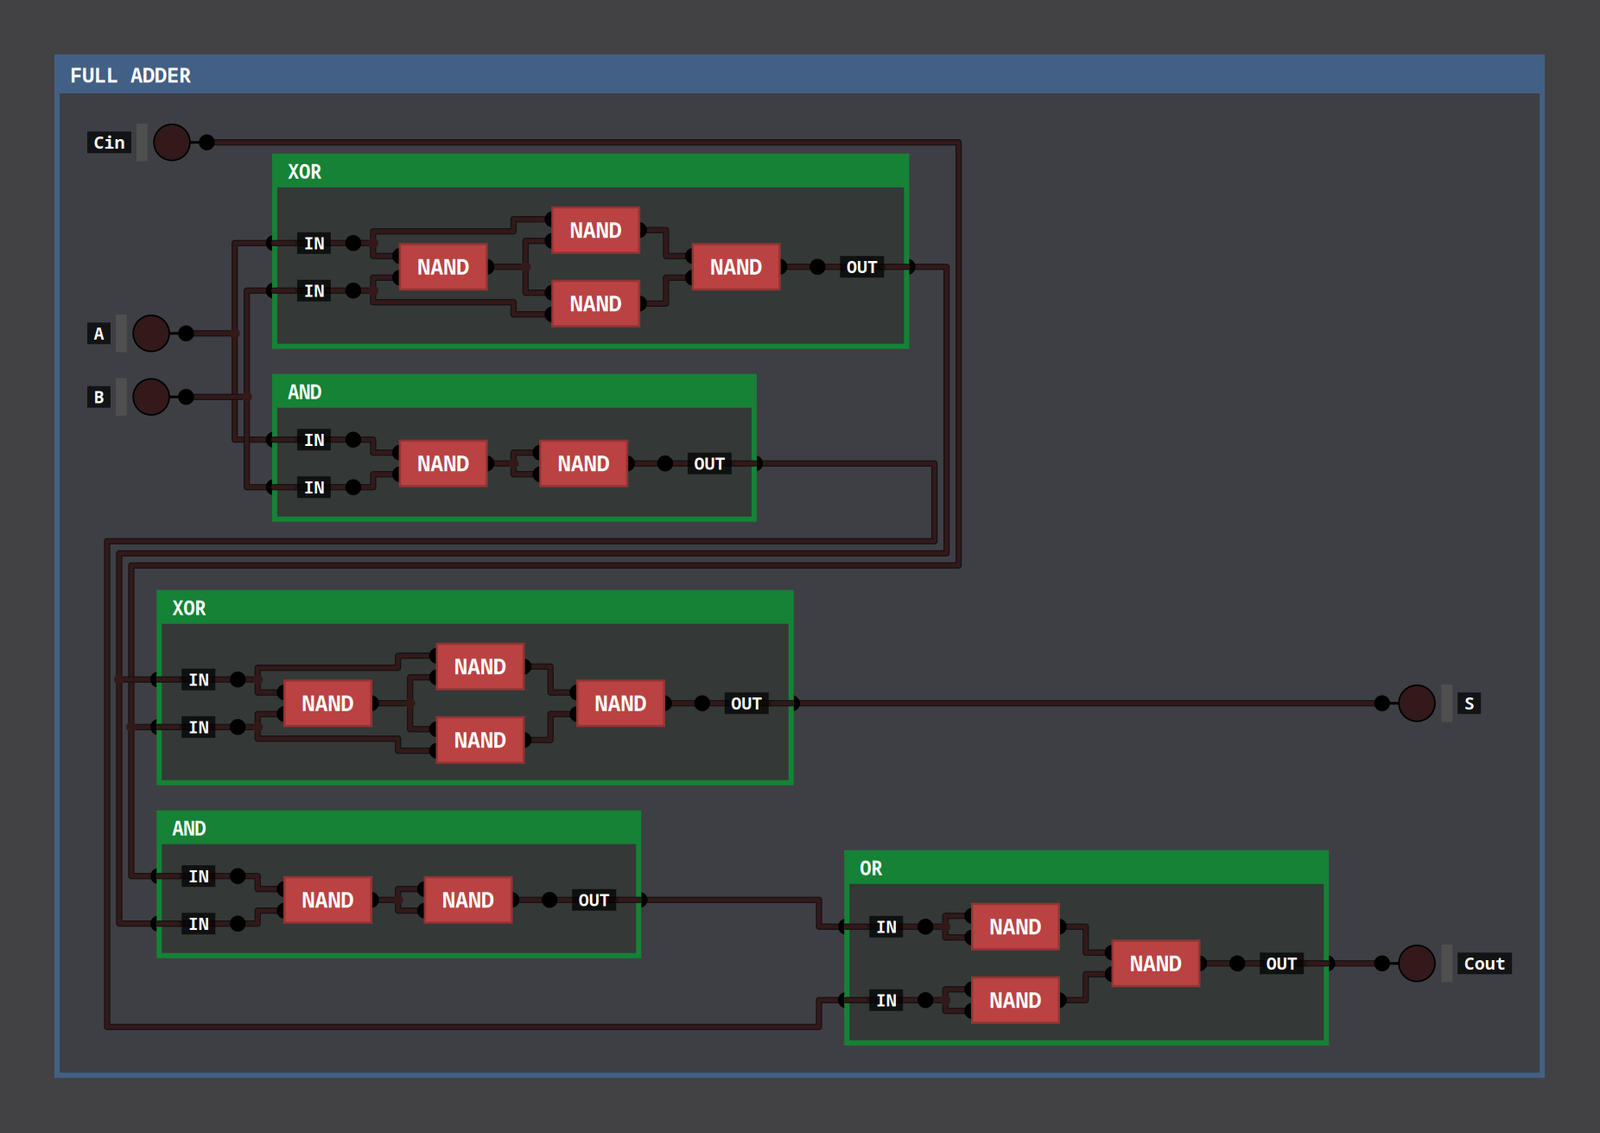
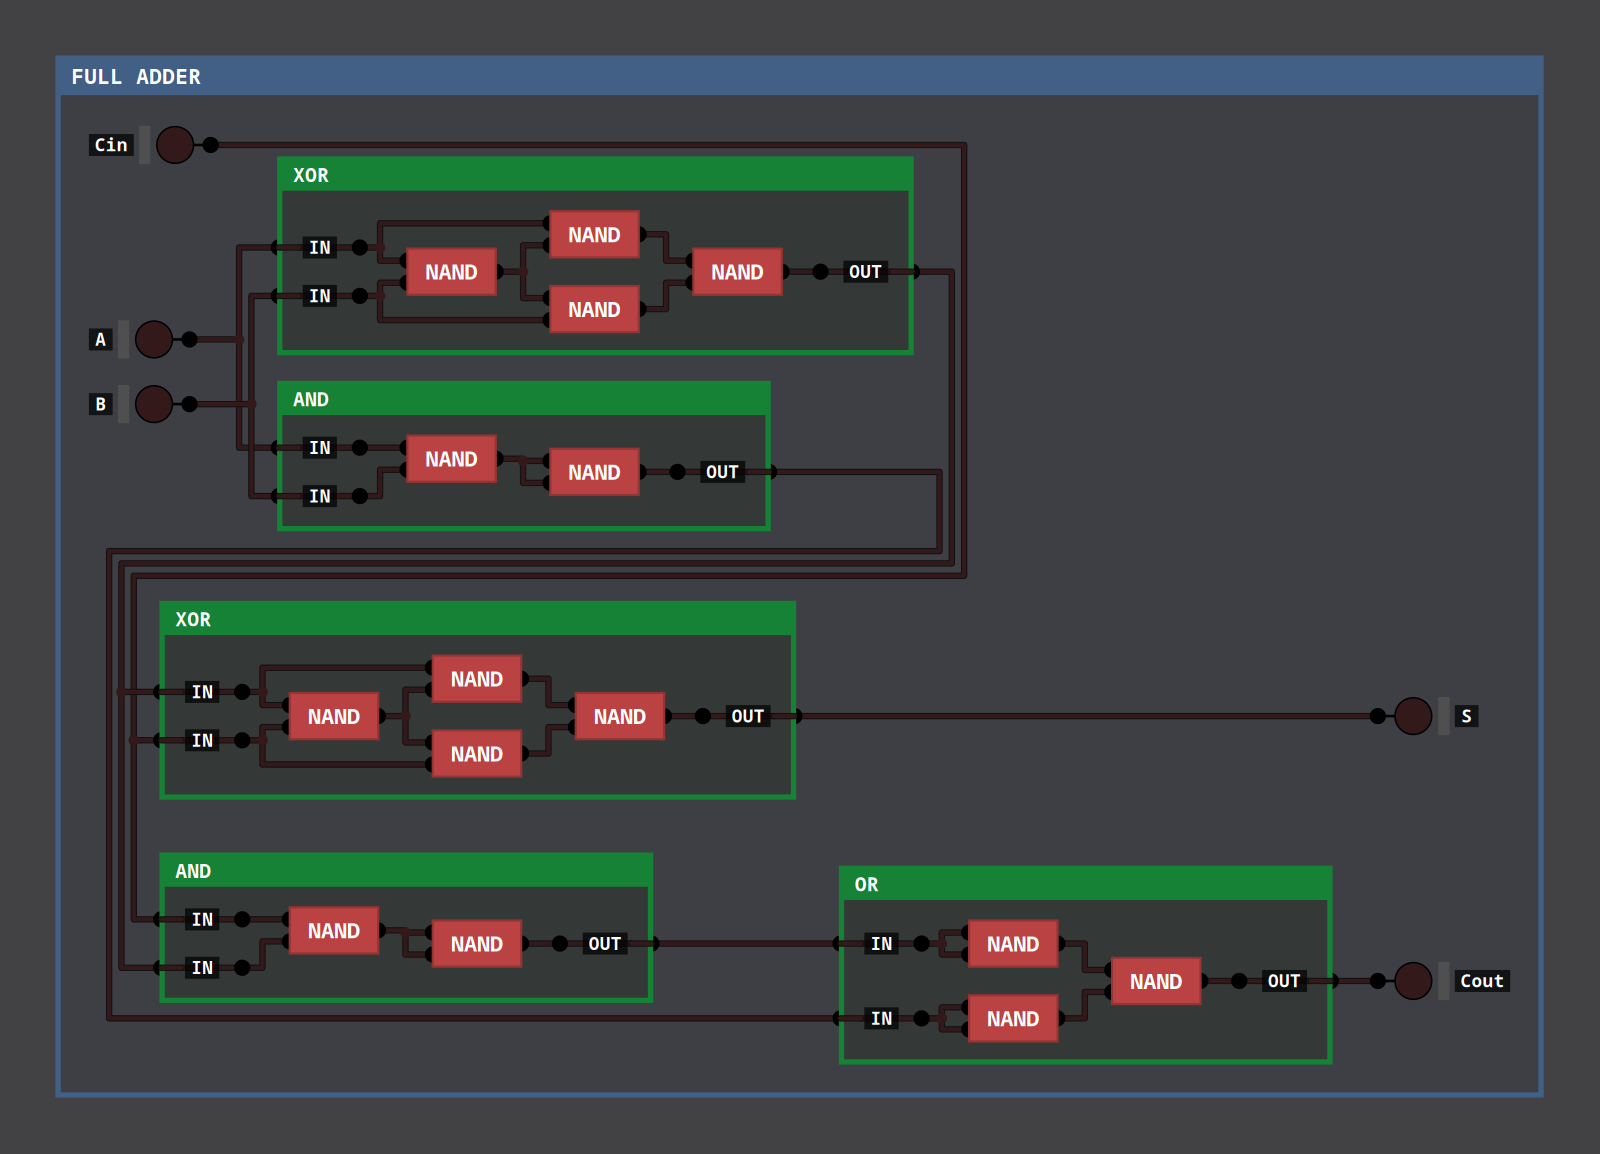
Use the auto layout for circuit images too
Both modes now default to the auto layout (--layout original keeps your own
placement). To keep the result easy to read:

- A bus whose bits all go to the same place is drawn as one thick wire with a
  dark centre line; per-bit wires are only used where a bus actually splits.
- After placement, parts are nudged wherever there's room so more wires run
  dead level instead of taking small jogs.
- Wrapping into rows now weighs the looping wires a row break would create, so
  a small chip whose wires mostly cross the break stays in one row.

diff --git a/dls_export.py b/dls_export.py
@@ -9,6 +9,10 @@ Two render modes:
             that holds its own inner circuit, so you can see all the parts
             a component is built from.
 
+Both modes use the auto layout by default: the parts are re-placed in columns by
+signal flow and the wires re-routed so they're easy to follow. --layout original
+keeps your own placement and wire bends instead.
+
 It reads the game's save files directly (it doesn't touch them), and it copies
 the game's layout rules (pin spacing, chip sizes, built-in chips, wire
 geometry) from the public DLS source so that wires meet pins where they do
@@ -365,8 +369,9 @@ class DevPin:
 
 
 class Wire:
-    def __init__(self, points, bits, colour, junction, depth, net=None):
+    def __init__(self, points, bits, colour, junction, depth, net=None, solid=False):
         self.points, self.bits, self.colour, self.junction, self.depth = points, bits, colour, junction, depth
+        self.solid = solid
         self.net = net
 
 
@@ -831,7 +836,13 @@ WIRE_CASING = (0.06, 0.06, 0.07)
 def draw_wire(ctx, w, opts):
     if getattr(opts, "split_buses", False):
         # Auto layout: every bit is its own wire with a thin dark edge, buses spread slightly
-        # apart, so a bus reads as separate wires and each bit can peel off on its own.
+        # apart, so a bus reads as separate wires and each bit can peel off on its own. A bus
+        # whose bits all go to the same place is one solid band with a dark centre line instead.
+        if w.solid and w.bits > 1:
+            polyline(ctx, w.points, BUS_W + 0.03, WIRE_CASING)
+            polyline(ctx, w.points, BUS_W, wire_col(w.colour, opts))
+            polyline(ctx, w.points, 0.025, darken(wire_col(w.colour, opts), 1.8))
+            return
         lanes = [w.points] if w.bits == 1 else multibit_layout(w.points, w.bits, LANE / (2 * 0.925))
         for bi, bpts in enumerate(lanes):
             polyline(ctx, bpts, WIRE_T * 2 + 0.022, WIRE_CASING)
@@ -918,12 +929,13 @@ def draw_frame(ctx, c, opts, title):
 def render_scene(ctx, sc, opts):
     for w in sc.wires:
         draw_wire(ctx, w, opts)
-    for p, bits, col in getattr(sc, "dots", []):
+    for p, bits, col, *solid in getattr(sc, "dots", []):
         if bits == 1:
             point(ctx, p, 0.06, wire_col(col, opts))
         else:  # bus branch: a small dark-edged bar across the bus, not a blob over its bits
-            quad(ctx, p, (0.13, bundle_width(bits) + 0.05), WIRE_CASING)
-            quad(ctx, p, (0.08, bundle_width(bits)), wire_col(col, opts))
+            bw = bundle_width(bits, bool(solid and solid[0]))
+            quad(ctx, p, (0.13, bw + 0.05), WIRE_CASING)
+            quad(ctx, p, (0.08, bw), wire_col(col, opts))
 
     for c in sc.chips:
         if c.inner:
@@ -940,7 +952,7 @@ def render_scene(ctx, sc, opts):
         if ln.colour is not None:
             # square ends, so a thick bus doesn't spill over the pin's name tag
             if getattr(opts, "split_buses", False):
-                draw_wire(ctx, Wire([ln.a, ln.b], ln.bits, ln.colour, None, 0), opts)
+                draw_wire(ctx, Wire([ln.a, ln.b], ln.bits, ln.colour, None, 0, solid=getattr(ln, "solid", False)), opts)
             else:
                 polyline(ctx, [ln.a, ln.b], bundle_width(ln.bits), wire_col(ln.colour, opts), cap=cairo.LINE_CAP_BUTT)
     ctx.save()
@@ -1033,12 +1045,17 @@ FOLD_MIN_W = 14.0
 BAND_GAP = 0.8
 
 
-def bundle_width(bits):
-    return WIRE_T * 2 if bits == 1 else bits * LANE
+BUS_W = 0.16  # a bus whose bits all travel together: drawn as one solid band
 
 
-def track_width(bits):
-    return max(0.13, bundle_width(bits) + 0.09)
+def bundle_width(bits, solid=False):
+    if bits == 1:
+        return WIRE_T * 2
+    return BUS_W if solid else bits * LANE
+
+
+def track_width(bits, solid=False):
+    return max(0.13, bundle_width(bits, solid) + 0.09)
 
 
 class Port:
@@ -1400,6 +1417,15 @@ def build_auto_scene(lib, desc, opts, depth=0, stack=frozenset(), cache=None, ro
             first = a.net[1] if side == "L" else tgt_bit.get((a.net, key), 0)
             centre_bit = first + (a.net[2] - 1) / 2
             a.lane = ((pbits - 1) / 2 - centre_bit) * LANE  # layout y runs down: high bits above
+    fanned = {a.net for v in fan_groups.values() for a in v}
+
+    def solid(net):
+        return net[2] > 1 and net not in fanned
+
+    for L in layers:
+        for d in L:
+            if d.kind == "dummy":
+                d.h = bundle_width(d.bits, solid(d.net)) + 0.02
 
     # ---- ordering within each column (barycentre sweeps, keep the best) ----
     for L in layers:
@@ -1471,6 +1497,39 @@ def build_auto_scene(lib, desc, opts, depth=0, stack=frozenset(), cache=None, ro
                 desired.append(sum(vals) / len(vals) if vals else e.y)
                 weights.append(len(vals) if vals else 0.05)
             _isotonic_place(L, desired, weights, _gap)
+
+    # ---- straighten: nudge parts so more wires run dead level (no small jogs) ----
+    def level_pairs(e):
+        """(own, other) for each plain point-to-point wire of e, the ones that can be straight."""
+        return [(own, o) for g, own in e.atts if len(g) == 2 and not any(a.fan for a in g)
+                for o in g if o is not own]
+
+    def n_level(e):
+        return sum(1 for own, o in level_pairs(e) if abs(own.y() - o.y()) < 1e-6)
+
+    for it in range(6):
+        moved = False
+        order = range(n_layers) if it % 2 == 0 else range(n_layers - 1, -1, -1)
+        for li in order:
+            L = layers[li]
+            for i, e in enumerate(L):
+                lo = L[i - 1].y + L[i - 1].h + _gap(L[i - 1], e) if i > 0 else -float("inf")
+                hi = L[i + 1].y - _gap(e, L[i + 1]) - e.h if i + 1 < len(L) else float("inf")
+                y0, best = e.y, (n_level(e), 0.0)
+                cands = {round(o.y() - (own.y() - e.y), 6) for own, o in level_pairs(e)}
+                best_y = y0
+                for y in cands:
+                    if not (lo - 1e-9 <= y <= hi + 1e-9) or abs(y - y0) > 1.5:
+                        continue
+                    e.y = y
+                    score = (n_level(e), -abs(y - y0))
+                    if score > best:
+                        best, best_y = score, y
+                    e.y = y0
+                if best_y != y0:
+                    e.y, moved = best_y, True
+        if not moved:
+            break
     top = min((e.y for e in elems + [d for L in layers for d in L]), default=0.0)
     for L in layers:
         for e in L:
@@ -1514,12 +1573,12 @@ def build_auto_scene(lib, desc, opts, depth=0, stack=frozenset(), cache=None, ro
             w = 0.0
             for n in avail:
                 lo, hi, bits = need[n]
-                pad = TRACK_SEP + bundle_width(bits) / 2
+                pad = TRACK_SEP + bundle_width(bits, solid(n)) / 2
                 if lo > last_hi + pad:
                     assigned[n] = t
                     remaining.discard(n)
-                    last_hi = hi + bundle_width(bits) / 2
-                    w = max(w, track_width(bits))
+                    last_hi = hi + bundle_width(bits, solid(n)) / 2
+                    w = max(w, track_width(bits, solid(n)))
             widths.append(w)
         for n, t in assigned.items():
             tracks_of[(c, n)] = t
@@ -1537,26 +1596,38 @@ def build_auto_scene(lib, desc, opts, depth=0, stack=frozenset(), cache=None, ro
     band_of = [0] * n_layers
     cuts = []
     if opts.aspect and n_layers > 3 and total_w > FOLD_MIN_W and total_h > 0 and total_w / total_h > opts.aspect * 1.5:
-        best_k, best_score = 1, abs(math.log(total_w / total_h / opts.aspect))
-        for k in range(2, min(12, n_layers - 2) + 1):
-            wk = total_w / k + 1.5
-            hk = k * total_h + (k - 1) * BAND_GAP
-            score = abs(math.log(wk / hk / opts.aspect))
-            if score < best_score:
-                best_k, best_score = k, score
-        if best_k > 1:
-            n_in_chan = {}
-            for (c, net) in groups:
-                n_in_chan[c] = n_in_chan.get(c, 0) + 1
+        # Every wire crossing a row break has to loop around through the gap between rows, which
+        # costs space and clarity, so a wrap only wins when it improves the shape by enough.
+        n_in_chan, w_in_chan = {}, {}
+        for (c, net) in groups:
+            n_in_chan[c] = n_in_chan.get(c, 0) + 1
+            w_in_chan[c] = w_in_chan.get(c, 0.0) + track_width(net[2], solid(net))
+
+        def pick_cuts(k):
             used = set()
-            for j in range(1, best_k):
-                target = total_w * j / best_k
+            for j in range(1, k):
+                target = total_w * j / k
                 cands = [c for c in range(1, n_layers - 2) if c not in used] or [c for c in range(n_layers - 1) if c not in used]
                 if not cands:
                     break
                 used.add(min(cands, key=lambda c: abs(col_x[c] + col_w[c] + chan_w[c] / 2 - target) / total_w * 10
                                                   + 0.12 * n_in_chan.get(c, 0)))
-            cuts = sorted(used)
+            return sorted(used)
+
+        best_cuts, best_score = [], abs(math.log(total_w / total_h / opts.aspect))
+        for k in range(2, min(12, n_layers - 2) + 1):
+            ck = pick_cuts(k)
+            if len(ck) != k - 1:
+                break
+            wk = total_w / k + 1.5 + 2 * max(w_in_chan.get(c, 0.0) for c in ck)
+            hk = k * total_h + sum(BAND_GAP + w_in_chan.get(c, 0.0) for c in ck)
+            n_cross = sum(n_in_chan.get(c, 0) for c in ck)
+            # share of the picture the looping wires would take up (each runs about a row's width)
+            loop_share = sum(w_in_chan.get(c, 0.0) for c in ck) / (k * total_h)
+            score = abs(math.log(wk / hk / opts.aspect)) + 5.0 * loop_share + 0.02 * n_cross
+            if score < best_score:
+                best_cuts, best_score = ck, score
+        cuts = best_cuts
     b = 0
     for li in range(n_layers):
         band_of[li] = b
@@ -1579,7 +1650,7 @@ def build_auto_scene(lib, desc, opts, depth=0, stack=frozenset(), cache=None, ro
     def stack_tracks(c, seq, store):
         pos = CHANNEL_MARGIN
         for n, g in seq:
-            tw = track_width(n[2])
+            tw = track_width(n[2], solid(n))
             store[(c, n)] = pos + tw / 2
             pos += tw
         return pos + CHANNEL_MARGIN
@@ -1653,8 +1724,10 @@ def build_auto_scene(lib, desc, opts, depth=0, stack=frozenset(), cache=None, ro
                         port = inner.ports_by_id.get(p["ID"])
                         if port:
                             ox, oy = port.outer_pos
-                            sc.links.append(Link(pin.pos, (ox + c.inner_offset[0], oy + c.inner_offset[1]),
-                                                 colour=pin.colour if pin.is_source else port.colour, bits=pin.bits))
+                            ln = Link(pin.pos, (ox + c.inner_offset[0], oy + c.inner_offset[1]),
+                                      colour=pin.colour if pin.is_source else port.colour, bits=pin.bits)
+                            ln.solid = port.solid
+                            sc.links.append(ln)
                 sc.chips.append(c)
             elif e.kind == "devpin":
                 p, is_input, hx = e.payload
@@ -1666,6 +1739,7 @@ def build_auto_scene(lib, desc, opts, depth=0, stack=frozenset(), cache=None, ro
                 p, is_input, show = e.payload
                 port = Port(p.get("Name", ""), x0, x0 + e.w, Y(e.layer, e.y + e.h / 2), p.get("BitCount", 1),
                             p.get("Colour", 0) or 0, is_input, show)
+                port.solid = port.bits > 1 and all(solid(own.net) for _, own in e.atts)
                 sc.ports.append(port)
                 sc.ports_by_id[p["ID"]] = port
 
@@ -1689,7 +1763,7 @@ def build_auto_scene(lib, desc, opts, depth=0, stack=frozenset(), cache=None, ro
         for _, (x, y) in atts_pts:
             sc.wires.append(Wire(_dedupe([(x, y), (tx, y)]), bits, col, None, 0, atts_pts[0][0].net))
             if ymin + 1e-6 < y < ymax - 1e-6 or count[round(y, 5)] > 1:
-                sc.dots.append(((tx, y), bits, col))
+                sc.dots.append(((tx, y), bits, col, solid(atts_pts[0][0].net)))
         note_turns(atts_pts, tx)
 
     for (c, net), g in groups.items():
@@ -1734,6 +1808,8 @@ def build_auto_scene(lib, desc, opts, depth=0, stack=frozenset(), cache=None, ro
 
 
     sc.wires = join_wire_pieces(sc.wires)
+    for w in sc.wires:
+        w.solid = w.net is not None and solid(w.net)
     sc.bbox = scene_bbox(sc, opts)
     extra = [(p.x0, p.y) for p in sc.ports] + [(p.x1, p.y) for p in sc.ports]
     if extra:
@@ -1811,7 +1887,7 @@ def _dedupe(pts):
 
 def draw_port(ctx, p, opts):
     col = wire_col(p.colour, opts)
-    draw_wire(ctx, Wire([(p.x0, p.y), (p.x1, p.y)], p.bits, p.colour, None, 0), opts)
+    draw_wire(ctx, Wire([(p.x0, p.y), (p.x1, p.y)], p.bits, p.colour, None, 0, solid=getattr(p, "solid", False)), opts)
     draw_pin(ctx, Pin(p.pin_pos, p.pin_pos, p.bits, p.is_input, p.colour, p.name, 1))
     if p.show_name and p.name.strip():
         w = text_width(p.name, FONT_PIN) + LABEL_PAD[0]
@@ -1892,7 +1968,7 @@ def main(argv=None):
                     help="output folder (default: ./exports next to this script)")
     ap.add_argument("--layout", choices=["auto", "original"], default=None,
                     help="auto = rearrange parts and re-route wires compactly; original = keep your layout "
-                         "(default: auto for expanded, original for circuit)")
+                         "(default: auto)")
     ap.add_argument("--aspect", type=float, default=1.8,
                     help="auto layout: wrap layouts much wider than this width/height ratio into rows "
                          "(default 1.8; 0 = never wrap)")
@@ -1957,7 +2033,7 @@ def main(argv=None):
                 desc = lib.custom[name]
                 auto_cache = {}
                 try:
-                    layout = args.layout or ("auto" if mode == "expanded" else "original")
+                    layout = args.layout or "auto"
                     opts.split_buses = layout == "auto"
                     sc = (build_auto_scene(lib, desc, opts, cache=auto_cache) if layout == "auto"
                           else build_scene(lib, desc, opts))

diff --git a/README.md b/README.md
@@ -17,29 +17,36 @@ Windows/macOS locations; point `--saves` somewhere else if needed.
 
 | Mode       | Output folder                  | What it shows |
 |------------|--------------------------------|---------------|
-| `circuit`  | `exports/<project>/circuit/`   | The inside of each chip, as you laid it out in the editor |
+| `circuit`  | `exports/<project>/circuit/`   | The inside of each chip |
 | `expanded` | `exports/<project>/expanded/`  | Every custom sub-chip opened up in place, recursively. Each one becomes a bordered frame, titled with the chip's name, holding its own inner circuit |
 
 ## Layouts
 
-| Layout     | Default for | What it does |
-|------------|-------------|--------------|
-| `original` | `circuit`   | Keeps your placement and your wire bends. In expanded mode, the space around each opened chip is stretched to make room, so straight wires stay straight |
-| `auto`     | `expanded`  | Rearranges the parts and re-routes the wires to use far less space, so gates are readable without zooming in |
+| Layout     | What it does |
+|------------|--------------|
+| `auto` (default) | Rearranges the parts and re-routes the wires so the circuit is easy to follow, and uses far less space, so gates are readable without zooming in |
+| `original` | Keeps your placement and your wire bends. In expanded mode, the space around each opened chip is stretched to make room, so straight wires stay straight |
 
 The auto layout places each chip's parts in columns by signal flow (inputs on the left,
 outputs on the right), with feedback loops such as latches routed back around. Parts are
 ordered to reduce wire crossings and lined up with whatever drives them, so most wires
 run straight. Wires are routed horizontally and vertically through the gaps between
-columns, each vertical run on its own track, and dots mark where a wire branches.
-Bit splitters and mergers (`8-1BIT`, `1-8BIT` and the 4-bit ones) are left out. A bus is
-drawn as one wire per bit, close together and in bit order (highest bit on top, as the
-game lays out bus pins), and each bit peels off on its own toward where it goes, crossing
-the others where it has to. Single-bit wires join a bus at a multi-bit pin in the same
-bit order. Each wire is traced through the splitters to the pin that really drives it. Layouts much wider than the target shape (`--aspect`,
-default 1.8) wrap into rows, and every wire is still drawn whole: a wire crossing a row
-break runs down the right edge of its row, back along its own lane in the gap between
-rows, and into the next row from the left.
+columns, each vertical run on its own track, and dots mark where a wire branches. After
+placing the parts, it nudges them wherever there's room so that more wires run dead level
+instead of taking small jogs.
+Bit splitters and mergers (`8-1BIT`, `1-8BIT` and the 4-bit ones) are left out. A bus
+whose bits all go to the same place is drawn as one thick wire with a dark centre line.
+Where a bus splits up, it's drawn as one wire per bit, close together and in bit order
+(highest bit on top, as the game lays out bus pins), and each bit peels off on its own
+toward where it goes, crossing the others where it has to. Single-bit wires join a bus at a multi-bit pin in the same
+bit order. Each wire is traced through the splitters to the pin that really drives it.
+
+Layouts much wider than the target shape (`--aspect`, default 1.8) can wrap into rows,
+and every wire is still drawn whole: a wire crossing a row break runs down the right edge
+of its row, back along its own lane in the gap between rows, and into the next row from
+the left. Because those looping wires cost space and clarity, a layout only wraps when
+the better shape outweighs them, so a small chip whose wires mostly cross the break
+(like an 8-bit ripple-carry adder) stays in one long row.
 
 ## Common commands
 
@@ -49,7 +56,7 @@ python3 dls_export.py --list                  # list projects and chips
 python3 dls_export.py -p ALU                  # one project
 python3 dls_export.py -p ALU -c ALU "FULL ADDER"           # specific chips
 python3 dls_export.py -p ALU --mode expanded --format svg   # vector output
-python3 dls_export.py --mode expanded --layout original    # keep your own layout
+python3 dls_export.py --layout original      # keep your own layout
 python3 dls_export.py --mode expanded --depth 1            # open only one level
 python3 dls_export.py --mode expanded --collapse AND,OR,NOT   # keep these chips closed
 python3 dls_export.py --lit                   # bright wire colours (easier to see)
